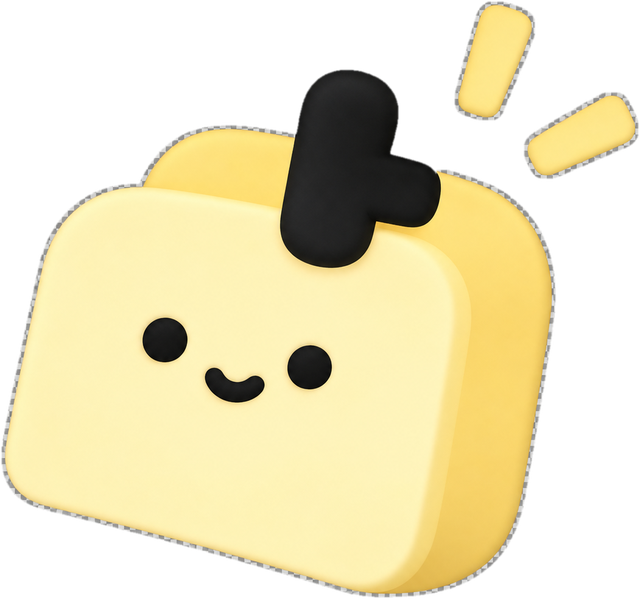
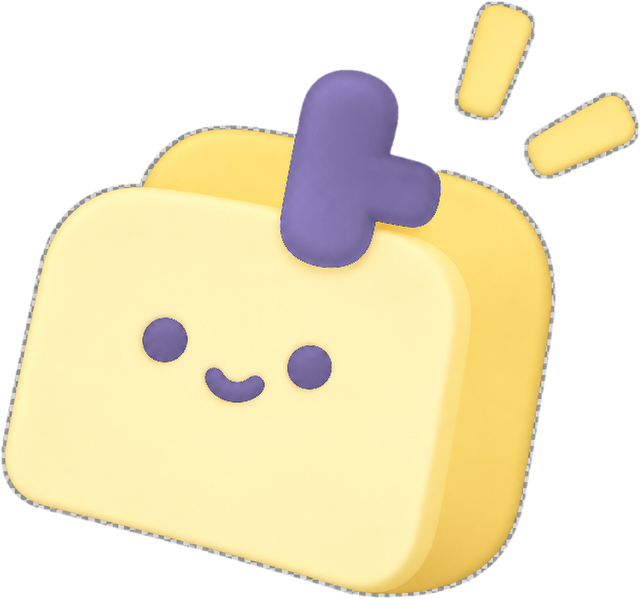
面包人夹子改品牌紫；卡片上直接「起个标题」入口
Claude-Session: https://claude.ai/code/session_011YTEG8e8bbZUvWaRN2PemN

Changed region(s): [[0.4375, 0.0902, 0.6875, 0.4508], [0.3125, 0.571, 0.5312, 0.6912], [0.2188, 0.5109, 0.3125, 0.601]]

diff --git a/Sources/SnipClip/Shelf/ClipCardView.swift b/Sources/SnipClip/Shelf/ClipCardView.swift
@@ -84,6 +84,17 @@ struct ClipCardView: View {
             .contentShape(Rectangle())
             .onTapGesture { renaming = true }
             .help("点击重命名")
+        } else {
+            // No title yet: a quiet entry point right on the card.
+            HStack(spacing: 6) {
+                Image(systemName: "plus").font(.system(size: 10, weight: .semibold))
+                Text("起个标题").font(.system(size: 13))
+                Spacer(minLength: 0)
+            }
+            .foregroundStyle(Color.shelfMuted.opacity(0.8))
+            .padding(.horizontal, 16).padding(.bottom, 10)
+            .contentShape(Rectangle())
+            .onTapGesture { renaming = true }
         }
     }
 
